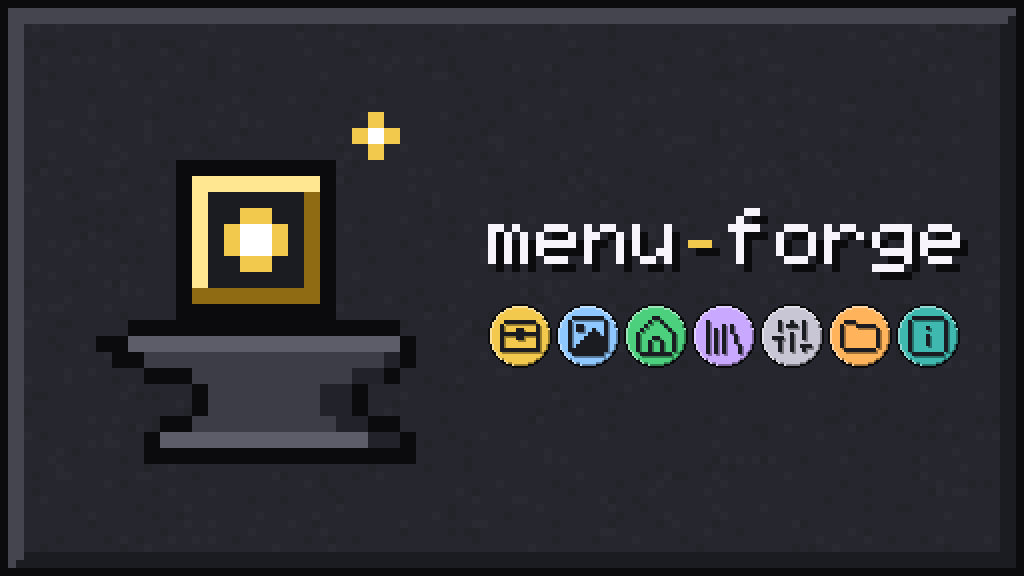
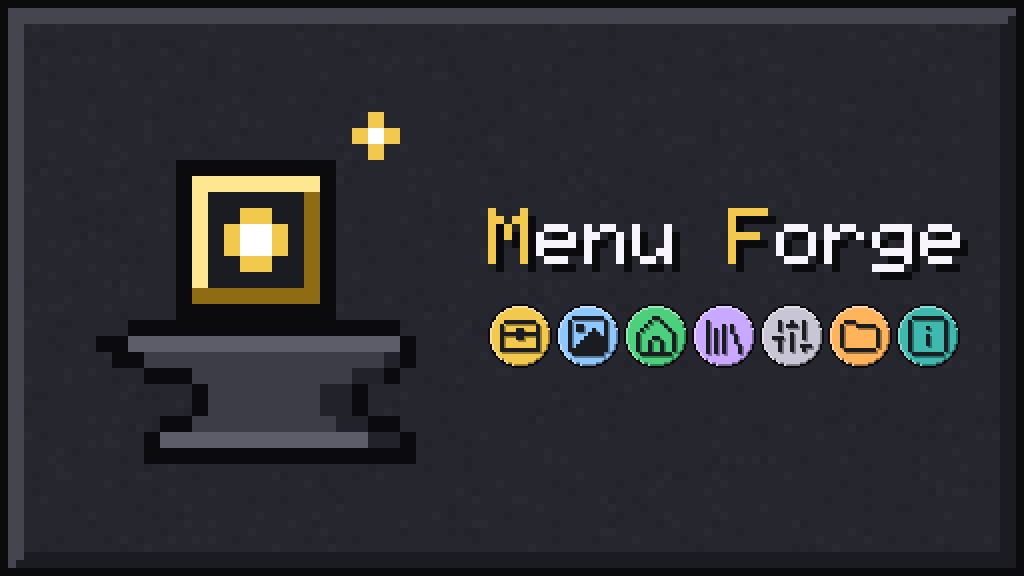
feat(studio): Afficher le nom « Menu Forge » dans l’interface, Tauri et Discord
Titre de la fenêtre et de l’onglet, accueil, À propos, barre de titre,
premier lancement, paramètres Discord, écran de démarrage, productName de
Tauri (l’identifier, qui fixe le dossier des réglages, ne change pas).
Rich Presence : texte au survol de la grande image et message du verrou.
Le mot-symbole de cover.png est redessiné, capitales en or : l’image est
à téléverser de nouveau dans le portail Discord.

Changed region(s): [[0.6562, 0.3438, 0.7812, 0.4688], [0.4688, 0.3438, 0.5312, 0.4688]]

diff --git a/studio/public/brand/discord/maquette.html b/studio/public/brand/discord/maquette.html
@@ -202,9 +202,9 @@
 <body>
 <main>
   <header class="masthead">
-    <img src="logo.png" alt="Logo de menu-forge" width="64" height="64">
+    <img src="logo.png" alt="Logo de Menu Forge" width="64" height="64">
     <div>
-      <h1>Rich Presence Discord de menu-forge</h1>
+      <h1>Rich Presence Discord de Menu Forge</h1>
       <p class="lead">
         Maquette de ce que Discord affiche quand le studio est ouvert, puis les huit images à
         téléverser dans le portail développeur, chacune avec sa clé exacte.
@@ -235,7 +235,7 @@
         <div class="sent"><pre id="sent-activity"></pre></div>
         <p class="note">
           La grande image est toujours <code class="inline">logo</code>. Survol de la grande
-          image&nbsp;: «&nbsp;menu-forge&nbsp;»&nbsp;; survol du médaillon&nbsp;: le texte
+          image&nbsp;: «&nbsp;Menu Forge&nbsp;»&nbsp;; survol du médaillon&nbsp;: le texte
           <code class="inline">smallText</code>. Le temps écoulé part du démarrage du studio.
         </p>
       </div>
@@ -267,7 +267,7 @@
           Ouvrir le portail développeur Discord,
           <a href="https://discord.com/developers/applications">discord.com/developers/applications</a>,
           puis <span class="ui-label">New Application</span>. La nommer exactement
-          <strong>menu-forge</strong>&nbsp;: c’est ce nom qui s’affiche après «&nbsp;Joue à&nbsp;».
+          <strong>Menu Forge</strong>&nbsp;: c’est ce nom qui s’affiche après «&nbsp;Joue à&nbsp;».
         </li>
         <li>
           Onglet <span class="ui-label">General Information</span>&nbsp;: copier
@@ -357,8 +357,8 @@
     const art = element('div', 'art');
     const large = element('img', 'large');
     large.src = 'logo.png';
-    large.alt = 'menu-forge';
-    large.title = 'menu-forge';
+    large.alt = 'Menu Forge';
+    large.title = 'Menu Forge';
     const small = element('img', 'small');
     small.src = example.smallImage + '.png';
     small.alt = example.smallText;
@@ -366,7 +366,7 @@
     art.append(large, small);
     const text = element('div', 'activity-text');
     text.append(
-      element('div', 'app-name', 'menu-forge'),
+      element('div', 'app-name', 'Menu Forge'),
       element('div', '', example.details),
       element('div', '', WORKSPACE),
     );
@@ -390,7 +390,7 @@
       details: example.details,
       state: WORKSPACE,
       timestamps: { start: Math.floor(startOf(example) / 1000) },
-      assets: { large_image: 'logo', large_text: 'menu-forge', small_image: example.smallImage, small_text: example.smallText },
+      assets: { large_image: 'logo', large_text: 'Menu Forge', small_image: example.smallImage, small_text: example.smallText },
     };
     return [body, activity];
   }

diff --git a/studio/src/screens/SettingsScreen.tsx b/studio/src/screens/SettingsScreen.tsx
@@ -20,7 +20,7 @@ const PACK_FORMATS: ReadonlyArray<{ value: number; label: string }> = [
 
 const DEFAULT_DISCORD: DiscordSettings = { enabled: true, clientId: null, showDocument: true };
 
-/** Application Discord « menu-forge », utilisée tant qu’aucun autre identifiant n’est saisi (même valeur que le backend). */
+/** Application Discord « Menu Forge », utilisée tant qu’aucun autre identifiant n’est saisi (même valeur que le backend). */
 const MENU_FORGE_CLIENT_ID = '1370756359037124698';
 
 /** Pastille d’état de la connexion à Discord. */
@@ -313,7 +313,7 @@ export function SettingsScreen({ pill, app, settings, activeWorkspace, onPatch, 
             title="Identifiant d’application"
             text={
               <>
-                Vide : l’application menu-forge (<code>{MENU_FORGE_CLIENT_ID}</code>). Pour utiliser la tienne : portail
+                Vide : l’application Menu Forge (<code>{MENU_FORGE_CLIENT_ID}</code>). Pour utiliser la tienne : portail
                 développeur Discord, <em>Application ID</em>.
               </>
             }
@@ -322,7 +322,7 @@ export function SettingsScreen({ pill, app, settings, activeWorkspace, onPatch, 
               mono
               label="Identifiant d’application Discord"
               value={discord.clientId ?? ''}
-              placeholder={`${MENU_FORGE_CLIENT_ID} (menu-forge)`}
+              placeholder={`${MENU_FORGE_CLIENT_ID} (Menu Forge)`}
               onCommit={(value) => void save({ discord: { clientId: value.trim() === '' ? null : value.trim() } }, 'Identifiant Discord')}
             />
           </SettingRow>

diff --git a/studio/src/screens/AboutScreen.tsx b/studio/src/screens/AboutScreen.tsx
@@ -20,7 +20,7 @@ export function AboutScreen({ pill, app }: { pill: ReactNode; app: AppInfo | nul
       <div className="about-hero">
         <img src="/brand/logo.svg" alt="" width={96} height={96} />
         <div>
-          <p className="about-name">menu-forge</p>
+          <p className="about-name">Menu Forge</p>
           <p className="muted">Studio d’inventaires Minecraft à base de glyphes de police.</p>
         </div>
       </div>
@@ -80,7 +80,7 @@ export function AboutScreen({ pill, app }: { pill: ReactNode; app: AppInfo | nul
       </section>
 
       <p className="legal">
-        menu-forge n’est ni affilié à Mojang ni approuvé par Mojang&nbsp;; Minecraft est une marque de Mojang AB. Les assets de
+        Menu Forge n’est ni affilié à Mojang ni approuvé par Mojang&nbsp;; Minecraft est une marque de Mojang AB. Les assets de
         packs tiers affichés dans la bibliothèque restent la propriété de leurs auteurs.
       </p>
     </ScreenFrame>

diff --git a/studio/src/shell/TitleBar.tsx b/studio/src/shell/TitleBar.tsx
@@ -58,7 +58,7 @@ export function TitleBar({ context, confirmClose }: TitleBarProps) {
 
   useEffect(() => {
     void getCurrentWindow()
-      .setTitle(`menu-forge · ${context}`)
+      .setTitle(`Menu Forge · ${context}`)
       .catch(() => undefined);
   }, [context]);
 
@@ -67,7 +67,7 @@ export function TitleBar({ context, confirmClose }: TitleBarProps) {
     <header className="titlebar" data-tauri-drag-region>
       <img className="titlebar-logo" src="/brand/logo.svg" alt="" width={16} height={16} data-tauri-drag-region />
       <span className="titlebar-name" data-tauri-drag-region>
-        menu-forge
+        Menu Forge
       </span>
       <span className="titlebar-context" data-tauri-drag-region>
         {context}

diff --git a/studio/src/screens/WorkspacesScreen.tsx b/studio/src/screens/WorkspacesScreen.tsx
@@ -70,7 +70,7 @@ export function WorkspacesScreen({ pill, list, welcome, confirmRemoval, onOpen, 
     <ScreenFrame title="Espaces de travail" icon="folder" pill={pill}>
       {welcome && active && (
         <div className="card welcome-card">
-          <h2 className="screen-section-title">Bienvenue dans menu-forge</h2>
+          <h2 className="screen-section-title">Bienvenue dans Menu Forge</h2>
           <p className="screen-lead">
             Un espace de travail par défaut est prêt, avec ses dossiers <code>menus/</code>, <code>assets/</code> et{' '}
             <code>textures/</code>. Garde-le ou ouvre le dossier de ton choix.

diff --git a/studio/src/export/exportWorkspace.ts b/studio/src/export/exportWorkspace.ts
@@ -123,7 +123,7 @@ export async function exportPackZip(snapshot: WorkspaceSnapshot): Promise<PackEx
   const menus = menusForExport(snapshot);
   const files = await generatePack(menus, loadWorkspaceTexture, settings.namespace);
   const entries = [
-    { path: 'pack.mcmeta', data: packMeta(settings.packFormat, 'Menus menu-forge (pack de test)') },
+    { path: 'pack.mcmeta', data: packMeta(settings.packFormat, 'Menus de Menu Forge (pack de test)') },
     ...[...files].map(([path, data]) => ({ path, data })),
   ];
   const zip = await createZip(entries);

diff --git a/studio/src/shell/ScreenRail.tsx b/studio/src/shell/ScreenRail.tsx
@@ -24,7 +24,7 @@ interface ScreenRailProps {
 export function ScreenRail({ current, onSelect, onShowShortcuts }: ScreenRailProps) {
   return (
     <nav className="rail" aria-label="Écrans">
-      <img className="rail-logo" src="/brand/logo.svg" alt="menu-forge" width={32} height={32} />
+      <img className="rail-logo" src="/brand/logo.svg" alt="Menu Forge" width={32} height={32} />
       {RAIL_ITEMS.map((item) => (
         <Tooltip key={item.screen} label={item.label} shortcut={item.shortcut} placement="right">
           <button

diff --git a/studio/src/App.tsx b/studio/src/App.tsx
@@ -303,7 +303,7 @@ export default function App() {
   // Titre (barre de titre, onglet, barre des tâches) : l’écran, ou le document ouvert dans l’éditeur.
   const titleContext = screen === 'editor' && openDocument ? openDocument.name : SCREEN_TITLES[screen];
   useEffect(() => {
-    document.title = `menu-forge · ${titleContext}`;
+    document.title = `Menu Forge · ${titleContext}`;
   }, [titleContext]);
 
   // Rich Presence Discord : l’activité suit l’écran et le document (le backend la transmet à Discord).

diff --git a/studio/public/splash.html b/studio/public/splash.html
@@ -3,9 +3,9 @@
 <head>
 <meta charset="UTF-8">
 <meta name="viewport" content="width=device-width, initial-scale=1.0">
-<title>menu-forge</title>
+<title>Menu Forge</title>
 <style>
-/* Écran de démarrage de menu-forge : autonome (aucune dépendance à l’appli),
+/* Écran de démarrage de Menu Forge : autonome (aucune dépendance à l’appli),
    chargé dans une petite fenêtre portrait sans bordure par Tauri. */
 @font-face {
   font-family: 'Pixelify Sans';

diff --git a/studio/src/screens/HomeScreen.tsx b/studio/src/screens/HomeScreen.tsx
@@ -165,7 +165,7 @@ export function HomeScreen({
       <div className="home-hero">
         <img src="/brand/logo.svg" alt="" width={64} height={64} />
         <div>
-          <p className="home-title">menu-forge</p>
+          <p className="home-title">Menu Forge</p>
           <p className="muted">
             Studio d’inventaires Minecraft à base de glyphes · espace <strong>{workspace?.name ?? '…'}</strong>
           </p>

diff --git a/studio/src/index.css b/studio/src/index.css
@@ -1,5 +1,5 @@
 /* ==========================================================================
-   menu-forge · studio – système de design « Deepslate »
+   Menu Forge · studio – système de design « Deepslate »
    L’univers du jeu, sans déguisement : ardoise, biseaux de 2 px, champs en
    creux, or réservé à la sélection et au geste principal, inspecteur dans un
    cadre d’infobulle d’objet.

diff --git a/studio/index.html b/studio/index.html
@@ -4,7 +4,7 @@
     <meta charset="UTF-8" />
     <link rel="icon" type="image/svg+xml" href="/favicon.svg" />
     <meta name="viewport" content="width=device-width, initial-scale=1.0" />
-    <title>menu-forge · studio</title>
+    <title>Menu Forge · studio</title>
   </head>
   <body>
     <div id="root"></div>
